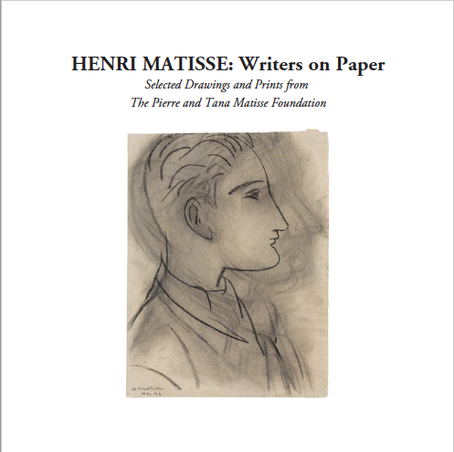
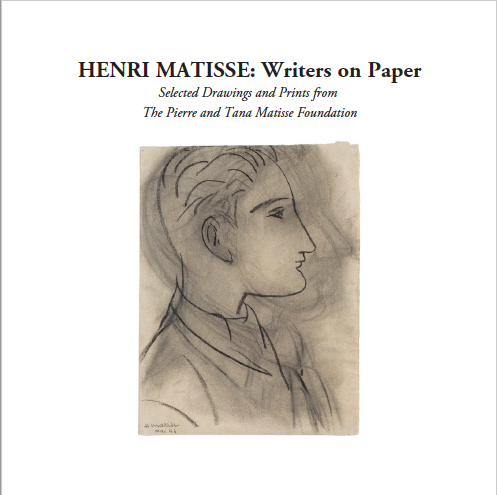
Use the larger Matisse catalog original and update open items
Every image was checked against Weebly's original and resized variants;
only this cover had a larger file.

Changed region(s): [[0.3084, 0.1858, 0.7093, 0.2478], [0.1542, 0.1239, 0.6476, 0.1549], [0.7401, 0.1239, 0.8326, 0.1549]]

diff --git a/src/lib/cv.ts b/src/lib/cv.ts
@@ -75,8 +75,8 @@ export const catalogs: Scan[] = [
 
 export const matisseCatalog: Scan = {
   file: "/cv/screen-shot-2018-10-23-at-3-35-26-pm.png",
-  width: 454,
-  height: 448,
+  width: 497,
+  height: 495,
   alt: "Catalog cover: Henri Matisse, Writers on Paper, Selected Drawings and Prints from the Pierre and Tana Matisse Foundation",
 };
 

diff --git a/README.md b/README.md
@@ -43,7 +43,7 @@ Art direction is "the wall and the label": a neutral ground, work at true propor
 ## Open items for the client
 
 - The old site had a password-protected "Current Work" page that could not be read. Send its content if it should be public.
-- Higher-resolution files are wanted for Works on Paper (about 430 by 576 px), The Stuyvesant-Fish House Paintings (about 430 by 510 px), the Kiefer monotypes (600 px wide) and the portrait (350 px wide).
+- Larger files are wanted for Works on Paper (about 430 by 576 px), The Stuyvesant-Fish House Paintings (about 430 by 510 px), the Kiefer monotypes (600 px wide) and the portrait (350 px wide). The old host holds nothing larger: every image was checked against Weebly's original and resized variants on October 17, 2026, and only the Matisse catalog cover had a bigger original (now in use). New files will have to come from Martin's own photographs or scans.
 - Captions are missing on the old site for two LSABS works (details taken from the image filenames), all six City Works, all twenty Works on Paper and the seven Kiefer prints. Titles and years would complete their labels.
 - Please confirm spellings carried over as written: "Citly Crakle", "Varient", "Deriere L'Etoile", "Bl:Wh'15 36'x30"", "Acqua".
 - Three works are marked "not available" on the old site. Confirm they should stay on view.
